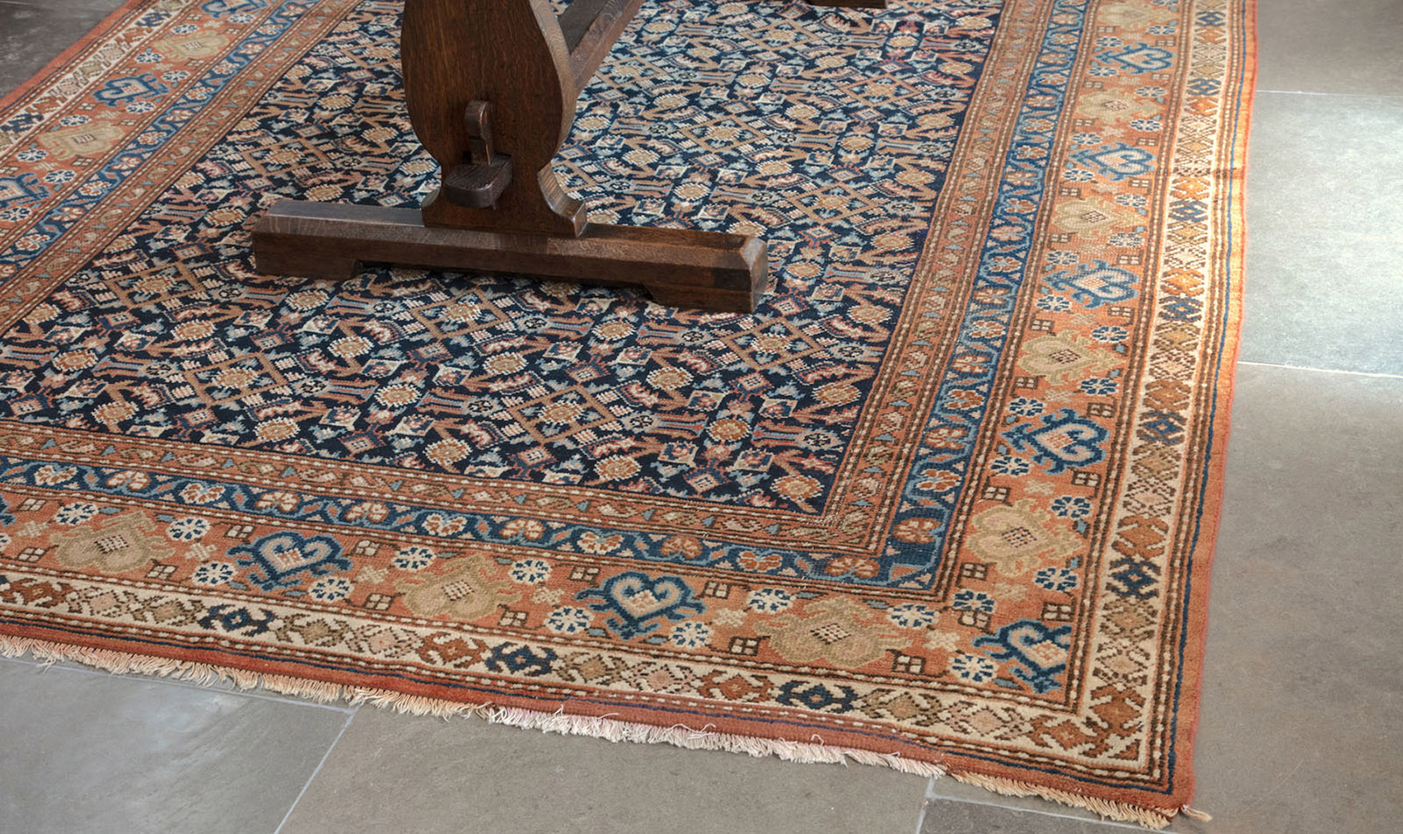
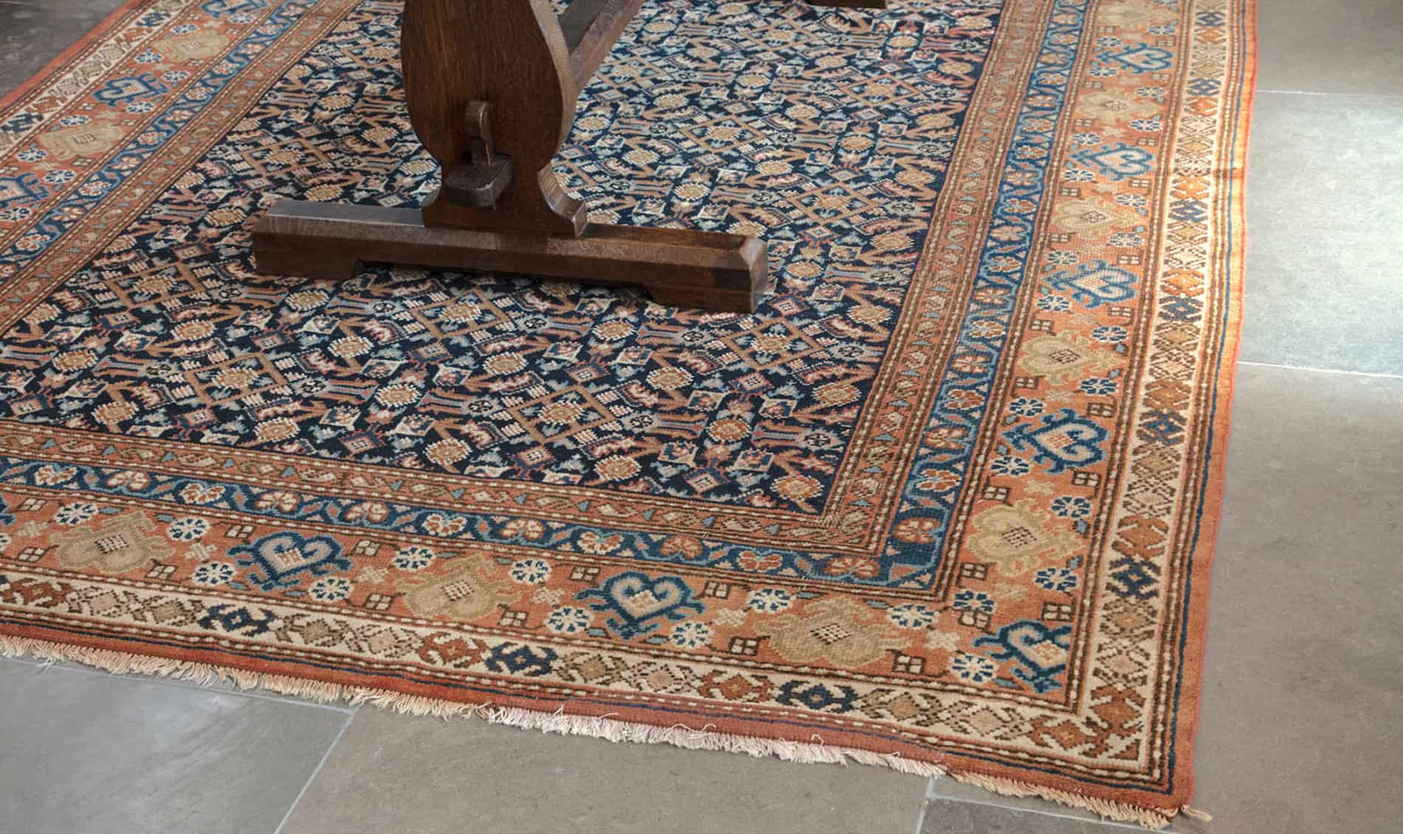
updated

diff --git a/index.html b/index.html
@@ -92,7 +92,7 @@
     <!-- Hero Section -->
     <section class="hero-minimal" id="hero">
         <div class="hero-bg-minimal"
-            style="background-image: url('./images/fara_creation.webp');">
+            style="background-image: url('./images/fara_creation.jpg');">
         </div>
         <div class="hero-overlay-minimal"></div>
 
@@ -131,14 +131,14 @@
                 </div>
                 <div class="product-card">
                     <div class="img-wrapper"><img
-                            src="./images/isfahan_rugs.webp"
+                            src="./images/isfahan_rugs.jpg"
                             alt="Isfahan Rug" loading="lazy"></div>
                     <p class="product-name">Isfahan</p>
                     <button class="btn-outline">SHOP NOW</button>
                 </div>
                 <div class="product-card">
                     <div class="img-wrapper"><img
-                            src="./images/red_tabriz.webp"
+                            src="./images/red_tabriz.jpg"
                             alt="Tabriz Rug" loading="lazy"></div>
                     <p class="product-name">Tabriz</p>
                     <button class="btn-outline">SHOP NOW</button>
@@ -153,7 +153,7 @@
                 </div>
                 <div class="product-card">
                     <div class="img-wrapper"><img
-                            src="./images/herig_rugs.webp"
+                            src="./images/herig_rugs.jpg"
                             alt="Heriz Rug" loading="lazy"></div>
                     <p class="product-name">Heriz</p>
                     <button class="btn-outline">SHOP NOW</button>
@@ -351,7 +351,7 @@
             </div>
         </div>
         <div class="consultation-img">
-            <img src="./images/design_consultation_faraz.png"
+            <img src="./images/design_consultation_faraz.jpg"
                 alt="Design Consultation Interior" loading="lazy">
         </div>
     </section>

diff --git a/professionals.html b/professionals.html
@@ -245,7 +245,7 @@
          ============================ -->
     <section class="pro-banner" id="pro-banner">
         <div class="hero-bg"
-            style="background-image: url('./images/why_partner_with_faraz.png');">
+            style="background-image: url('./images/why_partner_with_faraz.jpg');">
         </div>
         <div class="pro-banner-overlay"></div>
         <div class="pro-banner-content reveal-on-scroll">
@@ -267,7 +267,7 @@
         <div class="container">
             <div class="pro-guide-grid reveal-on-scroll">
                 <div class="pro-guide-img">
-                    <img src="./images/rug_guide_for_faraz.png"
+                    <img src="./images/rug_guide_for_faraz.jpg"
                         alt="Rug Guide for Interior Designers" loading="lazy">
                     <div class="pro-guide-badge">
                         <span>FARAZ CREATION</span>

diff --git a/contact.html b/contact.html
@@ -95,7 +95,7 @@
          ============================ -->
     <section class="contact-hero-v2" id="contact-hero">
         <div class="hero-bg"
-            style="background-image: url('./images/faraz_handmade_rug_carpets.png');">
+            style="background-image: url('./images/faraz_handmade_rug_carpets.jpg');">
         </div>
         <div class="contact-hero-overlay"></div>
 
